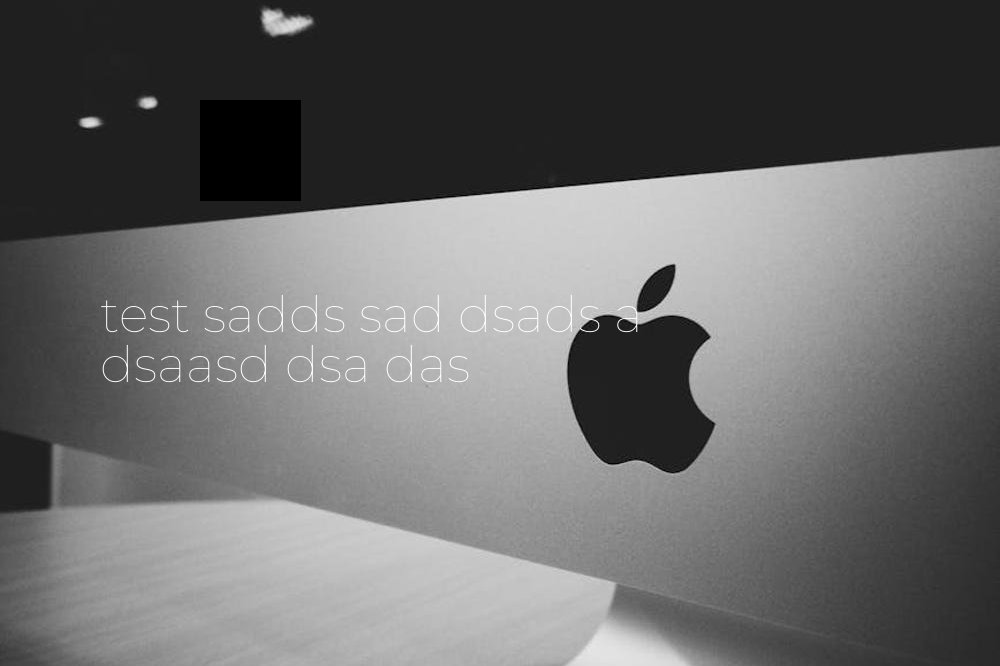
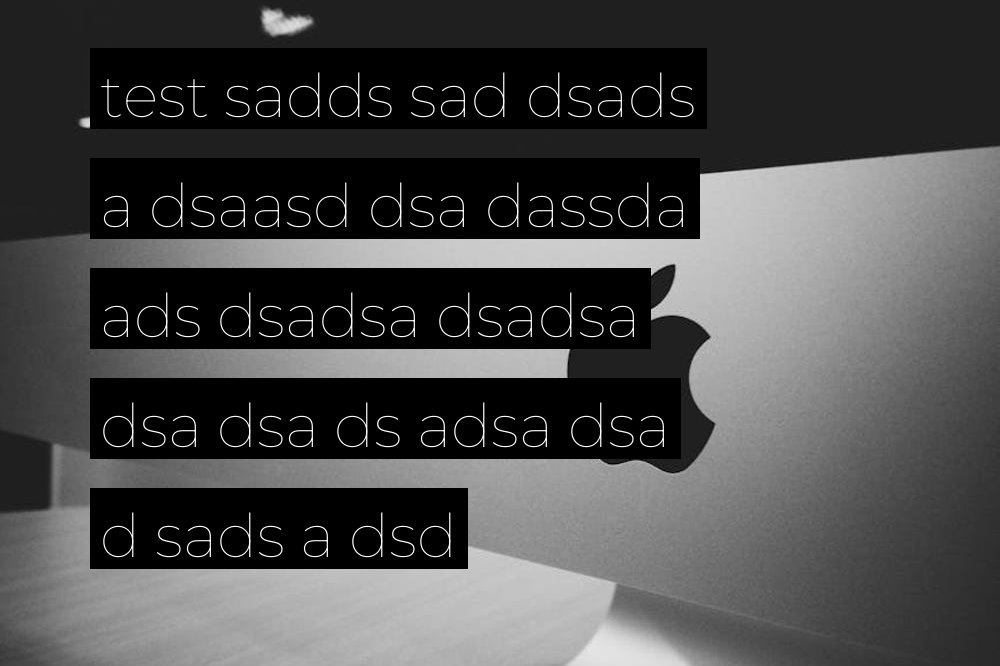
Update nginx conf

diff --git a/test.py b/test.py
@@ -117,17 +117,17 @@ def wrap_text(text, width, font):
 
     return text_lines
 
-title = "test sadds sad dsads a dsaasd dsa  das"
+title = "test sadds sad dsads a dsaasd dsa  dassda ads dsadsa dsadsa dsa dsa ds adsa dsa d sads a dsd"
 def text_wrapped(font_size):
         font_path = f'Montserrat-VariableFont_wght.ttf'
         font2 = ImageFont.truetype(font_path, font_size)
         msg2 = wrap_text(text=title, width=600, font=font2)
-        line_spacing = 50
+        line_spacing = 110
         total_text_height = len(msg2)*line_spacing
 
         return locals()
 
-starting_font = 50
+starting_font = 100
 text_wrapped_vars = text_wrapped(starting_font) 
 msg2 = text_wrapped_vars['msg2']
 line_spacing = text_wrapped_vars['line_spacing']
@@ -162,7 +162,8 @@ for text in msg2:
 
         print(width, height)
         #now create a rectangle using pillo
-        draw.rectangle((200, 100, 300, 200), fill="black")
+        draw.rectangle((100-10 , h_title+((H-total_text_height)/2) -10 , 100 + width +10, h_title+((H-total_text_height)/2) + height +10), fill="black")
+
         draw.text((100, (h_title+((H-total_text_height)/2))), text , (255, 255, 255), font=font2)
         h_title += line_spacing
 
@@ -171,3 +172,5 @@ img.save('img.jpg', 'JPEG', quality=85) # save image to BytesIO object
 
 img.show()
 # image = File(img_io, name=f"{uuid4()}.jpg") # create a django friendly File object
+
+# to do: tweak font styling, cleanup code, delete unnecesssary files, here and in s3, transfer code as a function to override default save method, keep save method clean should bea simple function call create_title_image(self)
